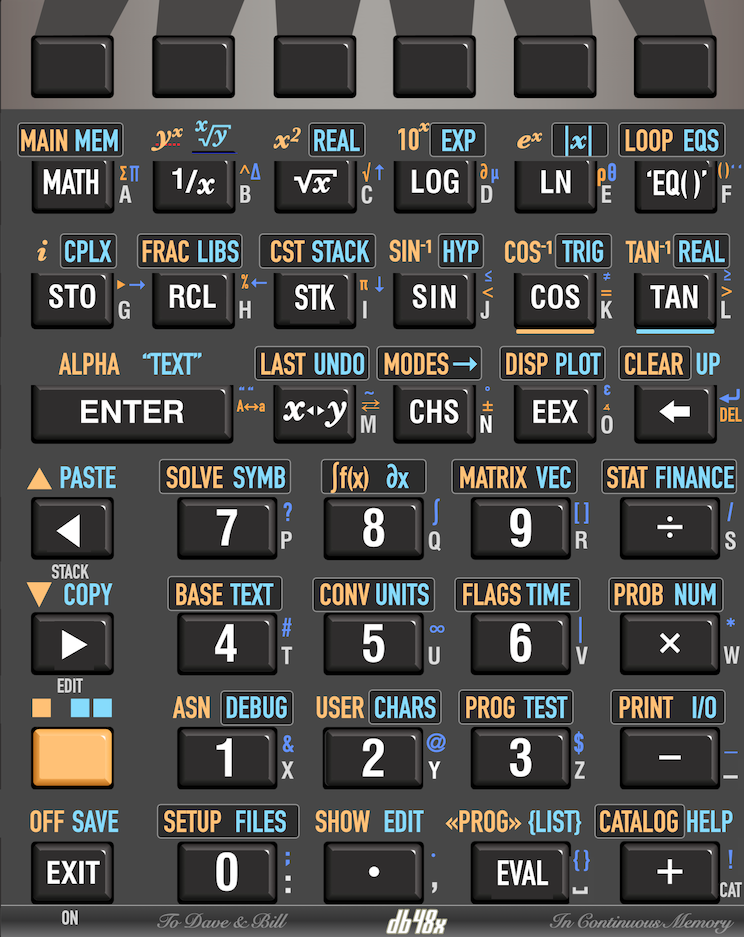
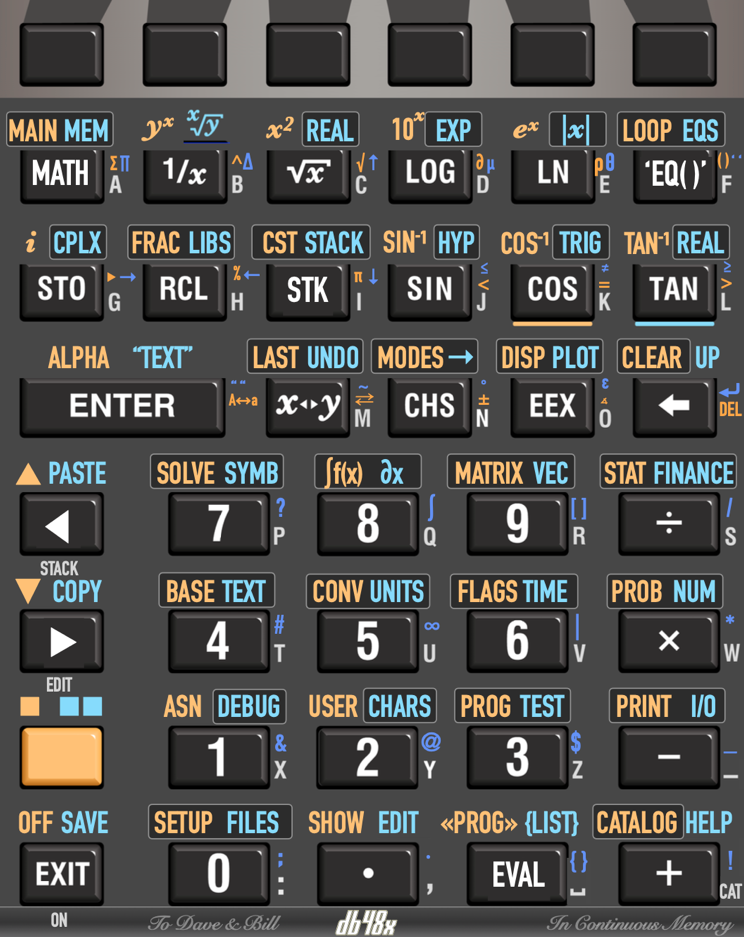
Add the ability to use the DB48X keyboard mapping
This makes it possible to check on simulator what things would look like.

diff --git a/sim/sim-window.cpp b/sim/sim-window.cpp
@@ -48,6 +48,7 @@
 RECORDER(sim_keys, 16, "Recorder keys from the simulator");
 
 extern bool run_tests;
+extern bool db48x_keyboard;
 MainWindow *MainWindow::mainWindow = nullptr;
 
 MainWindow::MainWindow(QWidget *parent)
@@ -67,6 +68,10 @@ MainWindow::MainWindow(QWidget *parent)
     ui.keyboard->installEventFilter(this);
     ui.screen->setAttribute(Qt::WA_AcceptTouchEvents);
     ui.screen->installEventFilter(this);
+    if (db48x_keyboard)
+        ui.keyboard->setStyleSheet("border-image: url(:/bitmap/keyboard-db48x.png) 0 0 0 0 stretch stretch;");
+    else
+        ui.keyboard->setStyleSheet("border-image: url(:/bitmap/keyboard.png) 0 0 0 0 stretch stretch;");
 
     highlight = new Highlight(ui.keyboard);
     highlight->setGeometry(0,0,0,0);
@@ -346,6 +351,15 @@ void MainWindow::keyPressEvent(QKeyEvent * ev)
             tests.onlyCurrent = k == Qt::Key_F11;
             tests.start();
         }
+    }
+
+    if (k == Qt::Key_F10)
+    {
+        db48x_keyboard = !db48x_keyboard;
+        if (db48x_keyboard)
+            ui.keyboard->setStyleSheet("border-image: url(:/bitmap/keyboard-db48x.png) 0 0 0 0 stretch stretch;");
+        else
+            ui.keyboard->setStyleSheet("border-image: url(:/bitmap/keyboard.png) 0 0 0 0 stretch stretch;");
     }
 
     for (int i = 0; keyMap[i] != 0; i += 2)

diff --git a/sim/sim-main.cpp b/sim/sim-main.cpp
@@ -37,6 +37,7 @@
 RECORDER(options, 32, "Information about command line options");
 
 bool run_tests = false;
+bool db48x_keyboard = false;
 
 int main(int argc, char *argv[])
 // ----------------------------------------------------------------------------
@@ -53,10 +54,21 @@ int main(int argc, char *argv[])
     for (int a = 1; a < argc; a++)
     {
         record(options, "  %u: %+s", a, argv[a]);
-        if (argv[a][0] == '-' && argv[a][1] == 't')
-            recorder_trace_set(argv[a]+2);
-        if (argv[a][0] == '-' && argv[a][1] == 'T')
-            run_tests = true;
+        if (argv[a][0] == '-')
+        {
+            switch(argv[a][1])
+            {
+            case 't':
+                recorder_trace_set(argv[a]+2);
+                break;
+            case 'T':
+                run_tests = true;
+                break;
+            case 'd':
+                db48x_keyboard = true;
+                break;
+            }
+        }
     }
 
 #if QT_VERSION < 0x060000
